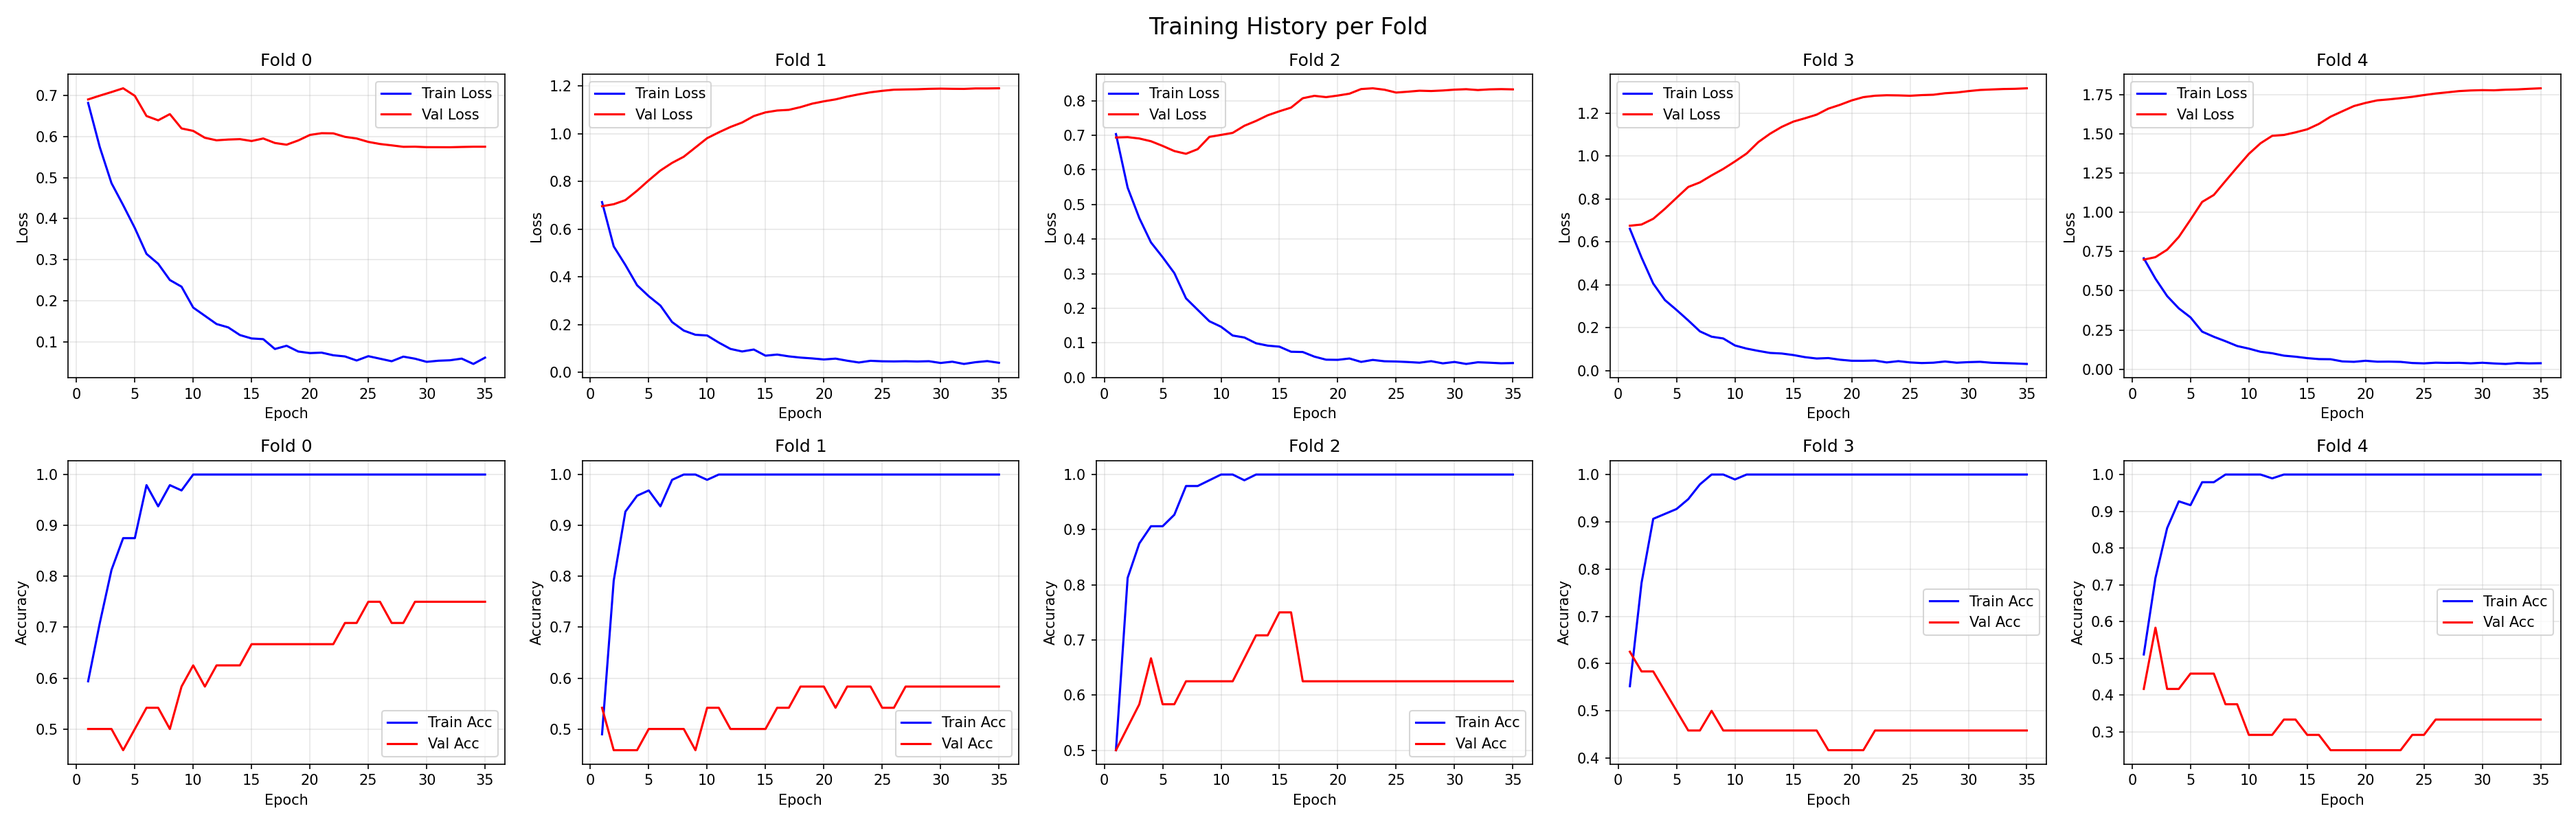
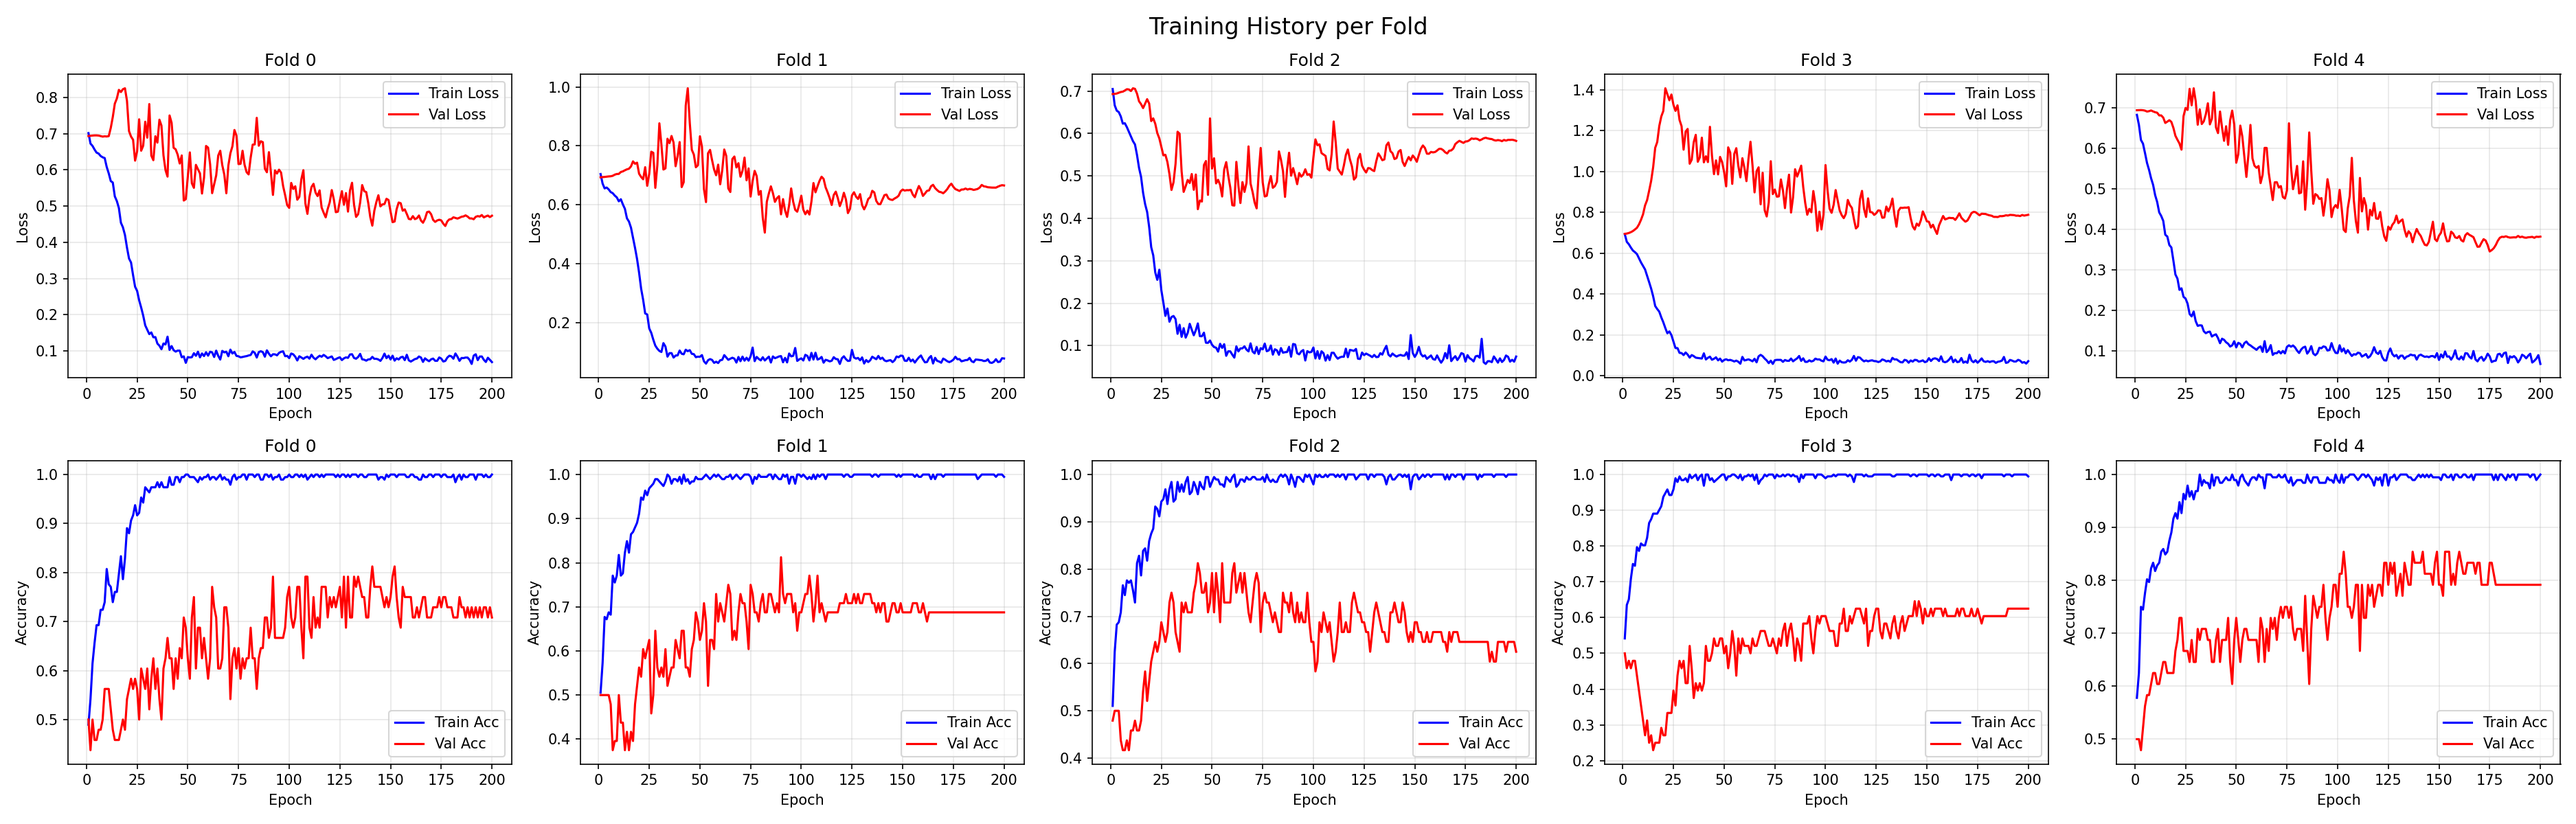
FBCNet

diff --git a/models/myFBCNet.py b/models/myFBCNet.py
@@ -1,0 +1,149 @@
+import torch
+import torch.nn as nn
+import torch.nn.functional as F
+from models.layers import Conv2dWithConstraint, LinearWithConstraint
+
+class FBCNet(nn.Module):
+    def __init__(
+            self,
+            num_channels: int,
+            input_time_length: int,  # 明确传入时间长度
+            m=32,
+            n_band=9,
+            temporal_stride=4,
+    ):
+        super(FBCNet, self).__init__()
+        self.temporal_stride = temporal_stride
+        self.n_band = n_band
+        self.m = m
+
+        # SCB (Spatial Convolution Block)
+        self.scb = nn.Sequential(
+            Conv2dWithConstraint(n_band, m * n_band, (num_channels, 1), 
+                                 groups=n_band, max_norm=2),
+            nn.BatchNorm2d(m * n_band),
+            Swish()
+        )
+
+        # Temporal Layer
+        self.temporal_layer = LogVarLayer(dim=-1)  # 在最后一个维度计算方差
+
+        # 动态计算输出特征维度
+        with torch.no_grad():
+            dummy_input = torch.randn(1, n_band, num_channels, input_time_length)
+            dummy_output = self.forward_backbone(dummy_input)
+            self.flattened_features = dummy_output.shape[1]  # 获取展平后的特征数
+            print(f"[FBCNet] Computed flattened features: {self.flattened_features}")
+
+    def forward_backbone(self, x):
+        """
+        处理单个样本的前向传播
+        
+        输入形状: (batch, n_band, num_channels, time_points)
+        输出形状: (batch, n_band * m * temporal_stride)
+        """
+        # x = torch.squeeze(x)  # 移除可能的单维度
+        x = self.scb(x)  # 输出: (batch, m*n_band, 1, time_points)
+        
+        # 动态填充以确保时间维度能被 temporal_stride 整除
+        batch_size, channels, height, time_len = x.shape
+        
+        # 计算需要填充的长度
+        remainder = time_len % self.temporal_stride
+        if remainder != 0:
+            pad_len = self.temporal_stride - remainder
+            x = F.pad(x, (0, pad_len))  # 在时间维度末尾填充
+            time_len = time_len + pad_len
+            # print(f"[FBCNet] Padded time dimension: {time_len - pad_len} -> {time_len}")
+        
+        # 重塑为时间块
+        # 新形状: (batch, channels, temporal_stride, time_len//temporal_stride)
+        x = x.reshape([batch_size, channels, self.temporal_stride, 
+                      time_len // self.temporal_stride])
+        
+        x = self.temporal_layer(x)  # 计算每个时间块的方差
+        x = torch.flatten(x, start_dim=1)  # 展平
+        
+        return x
+
+    def forward(self, x):
+        return self.forward_backbone(x)
+
+
+class Classifier(nn.Module):
+    def __init__(self, input_features, num_classes):
+        super(Classifier, self).__init__()
+        self.dense = nn.Sequential(
+            LinearWithConstraint(input_features, num_classes, max_norm=0.5),
+            nn.LogSoftmax(dim=1)
+        )
+
+    def forward(self, x):
+        return self.dense(x)
+
+
+class FBCNet_Standard(nn.Module):
+    """
+    标准化接口的 FBCNet
+    输入: (batch, n_band, num_channels, time_points)
+    输出: (batch, num_classes)
+    """
+    def __init__(self,
+                 num_classes: int,
+                 num_channels: int,
+                 input_time_length: int,
+                 n_band: int = 9,
+                 m: int = 32,
+                 temporal_stride: int = 4):
+        super(FBCNet_Standard, self).__init__()
+        
+        print(f"[FBCNet_Standard] Initializing with: "
+              f"n_band={n_band}, channels={num_channels}, time_len={input_time_length}")
+        
+        self.backbone = FBCNet(
+            num_channels=num_channels,
+            input_time_length=input_time_length,
+            m=m,
+            n_band=n_band,
+            temporal_stride=temporal_stride
+        )
+        
+        self.classifier = Classifier(
+            input_features=self.backbone.flattened_features,
+            num_classes=num_classes
+        )
+
+    def forward(self, x):
+        # 可选: 验证输入形状
+        if x.dim() != 4:
+            raise ValueError(f"Expected 4D input (batch, n_band, channels, time), got {x.shape}")
+        
+        features = self.backbone(x)
+        output = self.classifier(features)
+        return output
+
+
+# 激活函数类保持不变
+class ActSquare(nn.Module):
+    def forward(self, x):
+        return torch.square(x)
+
+class ActLog(nn.Module):
+    def __init__(self, eps=1e-06):
+        super(ActLog, self).__init__()
+        self.eps = eps
+
+    def forward(self, x):
+        return torch.log(torch.clamp(x, min=self.eps))
+
+class Swish(nn.Module):
+    def forward(self, x):
+        return x * torch.sigmoid(x)
+
+class LogVarLayer(nn.Module):
+    def __init__(self, dim):
+        super(LogVarLayer, self).__init__()
+        self.dim = dim
+
+    def forward(self, x):
+        return torch.log(torch.clamp(x.var(dim=self.dim, keepdim=True), 1e-6, 1e6))

diff --git a/models/_get_model.py b/models/_get_model.py
@@ -4,6 +4,7 @@ from models.EEGNet import EEGNet
 from models.CNNLSTM import CNNLSTM, MultiBand_CNNLSTM, Simplified_MultiBand_CNNLSTM
 from models.myADFCNN import ADFCNN
 from models.FBCNN import FilterBankCNN
+from models.myFBCNet import FBCNet_Standard
 import constant_value
 import os
 import utils
@@ -15,7 +16,7 @@ def get_model(model_id, dataset_info):
     class_num = dataset_info['dataset']['num_classes']
     sr = dataset_info['preprocessing']['resample']['target_sr']
     input_size = int(dataset_info['preprocessing']['windowing']['window_length_sec'] * sr)
-    band_num = len(constant_value.filter_banks)
+    band_num = len(dataset_info['preprocessing']['filter_bank']['filter_banks'])
 
     model_name = constant_value.MODELS[model_id]
     if model_name == 'EEGNet':
@@ -30,5 +31,7 @@ def get_model(model_id, dataset_info):
         return Simplified_MultiBand_CNNLSTM(channels_num=channels_num, bands_num=band_num, class_num=class_num, input_length=input_size)
     elif model_name == 'FilterBankCNN':
         return FilterBankCNN(n_filterbanks=band_num, n_channels=channels_num, n_times=input_size, n_classes=class_num)
+    elif model_name == 'FBCNet_Standard':
+        return FBCNet_Standard(num_classes=class_num, num_channels=channels_num, input_time_length=input_size, n_band=band_num)
     else:
         raise ValueError(f"Unknown model name: {model_name}")

diff --git a/constant_value.py b/constant_value.py
@@ -17,6 +17,7 @@ MODELS = {
     4: 'MultiBand_CNNLSTM',
     5: 'Simplified_MultiBand_CNNLSTM',
     6: 'FilterBankCNN',
+    7: 'FBCNet_Standard',
 }
 SELECTED_MODEL = 3
 
